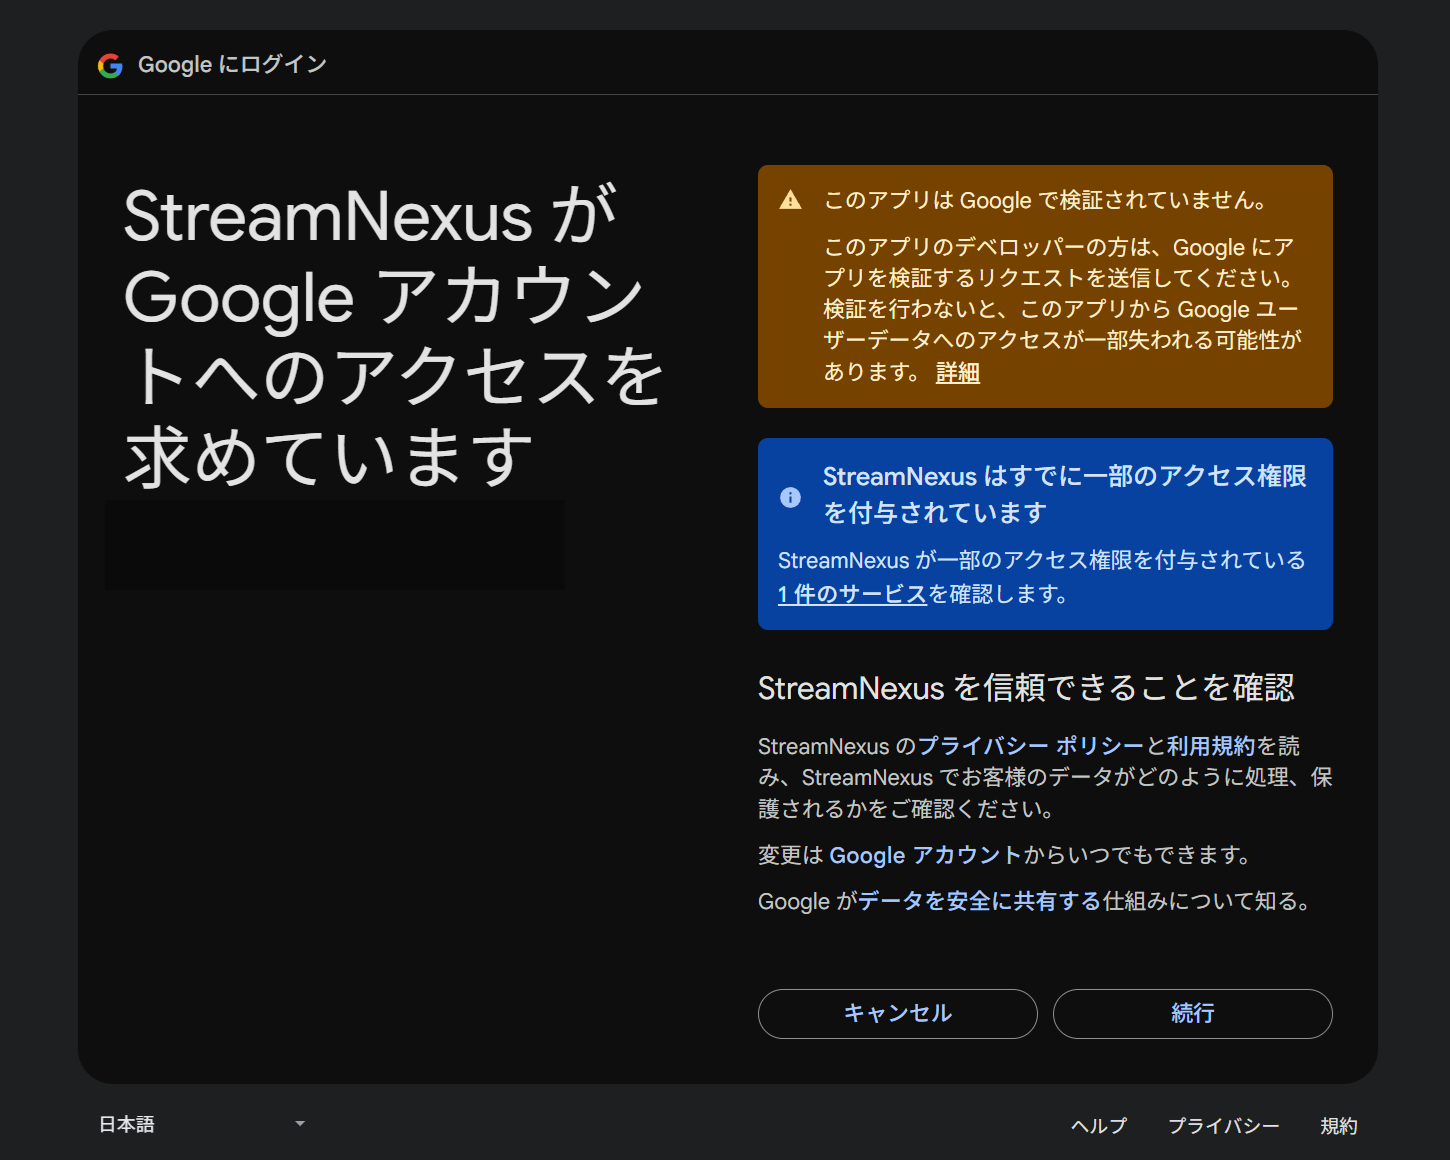
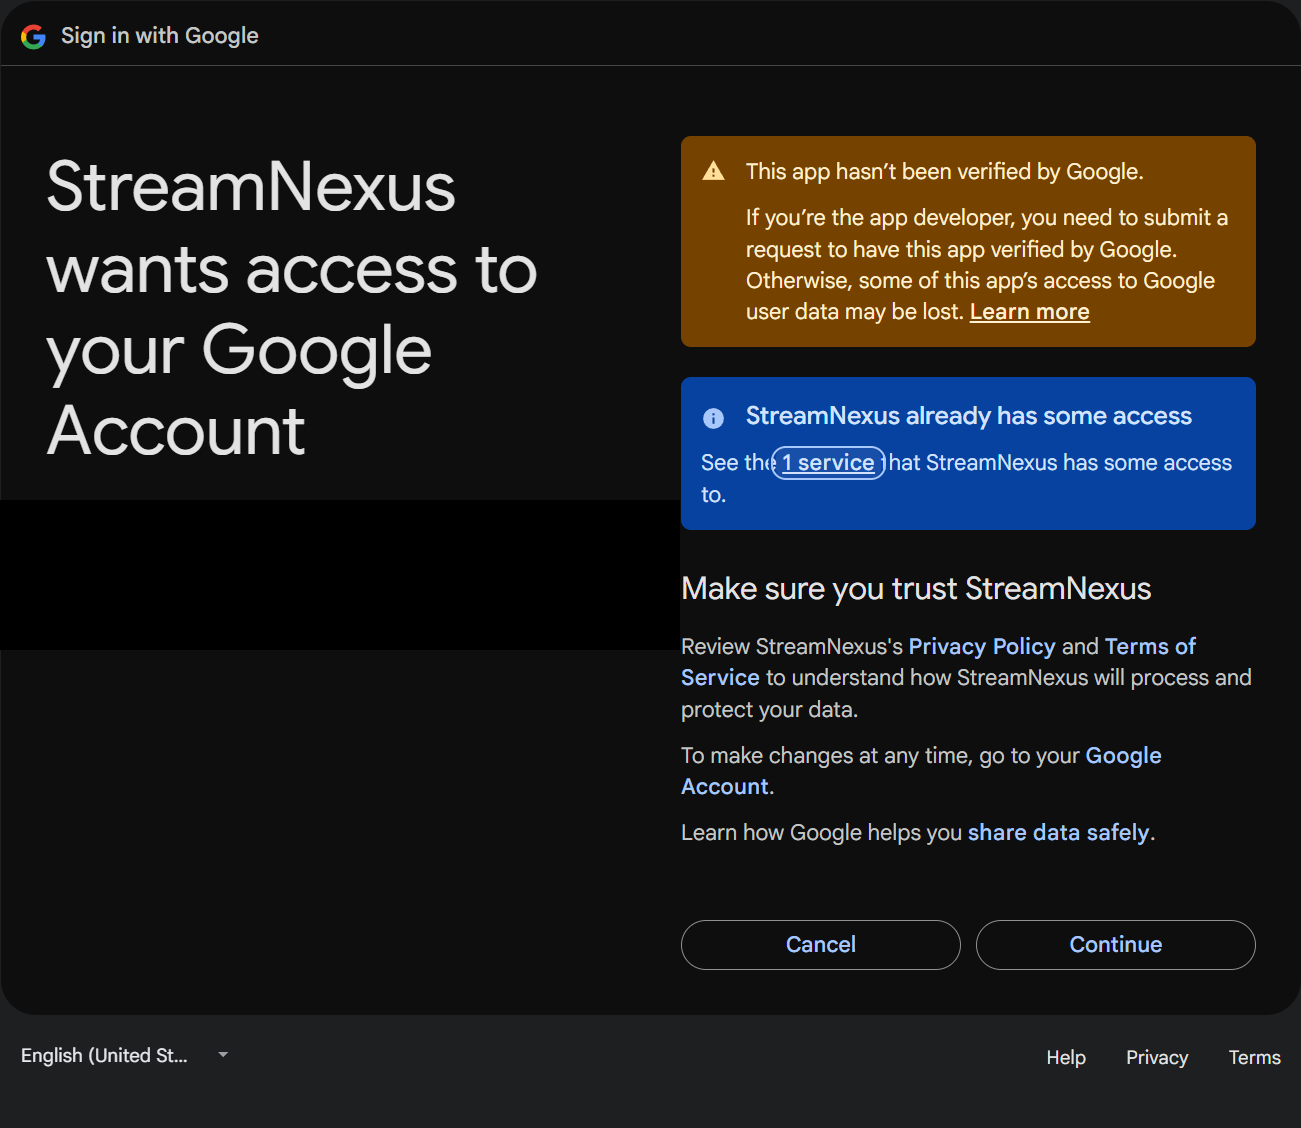
docs: Google監査用スコープ説明と動画を更新

diff --git a/google-cloud-youtube-oauth-submission.md b/google-cloud-youtube-oauth-submission.md
@@ -58,9 +58,45 @@ Google Cloud / YouTube API compliance audit 向けには、次の補足資料も
   - `http://localhost:5173/settings/youtube/callback`
 - Scope:
   - `https://www.googleapis.com/auth/youtube.readonly`
+- OAuth client:
+  - Web application client ID: `397918410949-ablo3jr6ulad92vpc08u8luph4i41lus.apps.googleusercontent.com`
+  - Client secret は提出資料・公開 repo・デモ動画に表示しない。
 
 サポートメールは、公開提出前に実運用で受け取れるメールアドレスへ統一する。
 Privacy Policy の Contact セクションも、Google OAuth consent screen と同じサポートメールが分かる表現にする。
+
+## Google Cloud Data Access: Scope usage に貼る文面
+
+Google Cloud Console の `Data Access > Scope usage` には、基本的に英語で以下を貼り付ける。
+
+```text
+StreamNexus uses https://www.googleapis.com/auth/youtube.readonly only to let a signed-in user view their own YouTube account data inside the desktop app. After OAuth consent, StreamNexus reads YouTube account/subscription-related data to import or select channels, monitor live-stream status, and display public video/live metadata for notifications and multiview playback. The data is shown only in the app UI and stored locally so the user can manage monitored channels. StreamNexus does not upload, edit, delete, comment on, manage videos/playlists/channels, or share/sell/use YouTube data for advertising or AI training. More limited access is insufficient because API-key-only public data cannot identify the user's YouTube account or user-selected/subscribed channels. StreamNexus requests only youtube.readonly and provides disconnect, Google token revocation, and local YouTube authorized-data deletion controls.
+```
+
+参考日本語訳:
+
+```text
+StreamNexus は、ログイン済みユーザーがデスクトップアプリ内で自分の YouTube アカウントデータを表示するためだけに https://www.googleapis.com/auth/youtube.readonly を使用します。OAuth 同意後、StreamNexus は YouTube アカウントまたは登録チャンネル関連データを読み取り、チャンネルの取り込み・選択、ライブ配信状態の監視、通知とマルチビュー再生のための公開動画/ライブメタデータ表示に使用します。データはアプリ UI 内だけに表示され、ユーザーが監視対象チャンネルを管理できるようローカルに保存されます。StreamNexus は動画やプレイリストやチャンネルのアップロード、編集、削除、コメント投稿、管理を行わず、YouTube データを広告や AI 学習のために共有、販売、使用しません。API key のみで取得できる公開データでは、ユーザーの YouTube アカウントやユーザーが選択または登録しているチャンネルを識別できないため、より限定的なアクセスでは不十分です。StreamNexus は youtube.readonly のみを要求し、連携解除、Google token revocation、ローカル YouTube Authorized Data 削除 control を提供します。
+```
+
+## Demo video に含める内容
+
+Google Cloud Console の `Demo video: Scope usage` には、YouTube にアップロードした動画 URL を入力する。
+動画では次を明確に見せる。
+
+- App name: `StreamNexus`
+- OAuth client type: Web application
+- OAuth client ID: `397918410949-ablo3jr6ulad92vpc08u8luph4i41lus.apps.googleusercontent.com`
+- Requested scope: `https://www.googleapis.com/auth/youtube.readonly`
+- OAuth consent screen の app name と expanded permission details
+- アプリ内で YouTube read-only data を使う流れ:
+  - 初回利用前の Privacy Policy / Terms 確認
+  - Settings > Linked Accounts
+  - YouTube 連携導線
+  - YouTube account / channel selection / live metadata display のために read-only data を使う説明
+  - YouTube 連携解除、Google token revocation、local authorized-data deletion control
+
+動画を YouTube へアップロードする場合は、限定公開 URL を推奨する。アップロードや Google Cloud Console への保存は外部送信・外部状態変更なので、実行直前に確認してから行う。
 
 ## 提出用スクリーンショット
 

diff --git a/google-compliance-evidence-package.ja.md b/google-compliance-evidence-package.ja.md
@@ -30,6 +30,7 @@ SVG は編集用ソースとして残します。
 | Terms of Service URL | `https://github.com/rodojp/StreamNexus-updates/blob/main/terms-of-service.md` |
 | YouTube scope | `https://www.googleapis.com/auth/youtube.readonly` のみ |
 | OAuth redirect URI | packaged app または dev app が使う localhost callback URI |
+| OAuth client | Web application client ID `397918410949-ablo3jr6ulad92vpc08u8luph4i41lus.apps.googleusercontent.com`; client secret は表示しない |
 | Support email | Google OAuth consent screen に表示される support email と同一 |
 | Branding | app name に `Twitch` または `YouTube` を含めず、公開名称を `StreamNexus` にする |
 
@@ -60,7 +61,7 @@ production OAuth client が異なる場合は、最終提出前に production cl
 現在のスクリーンショット上の制限:
 
 - Google Cloud Console の Data Access では、scope justification と demo video URL がまだ空欄です。提出前に Google Cloud Console 側で入力してください。
-- 公開 repo に置くため、account email、account avatar、client ID、client secret は切り出しまたは黒塗りしています。
+- 公開 repo に置くため、account email、account avatar、client secret は切り出しまたは黒塗りしています。OAuth client ID は Google がデモ動画での識別を求めるため表示してもよい値ですが、client secret は絶対に表示しないでください。
 
 各スクリーンショットで確認したい点:
 
@@ -80,20 +81,27 @@ production OAuth client が異なる場合は、最終提出前に production cl
 
 - [streamnexus-google-compliance-demo.mp4](./evidence/demo-video/streamnexus-google-compliance-demo.mp4)
 
+Google Cloud Console に貼り付ける Scope usage 文面:
+
+```text
+StreamNexus uses https://www.googleapis.com/auth/youtube.readonly only to let a signed-in user view their own YouTube account data inside the desktop app. After OAuth consent, StreamNexus reads YouTube account/subscription-related data to import or select channels, monitor live-stream status, and display public video/live metadata for notifications and multiview playback. The data is shown only in the app UI and stored locally so the user can manage monitored channels. StreamNexus does not upload, edit, delete, comment on, manage videos/playlists/channels, or share/sell/use YouTube data for advertising or AI training. More limited access is insufficient because API-key-only public data cannot identify the user's YouTube account or user-selected/subscribed channels. StreamNexus requests only youtube.readonly and provides disconnect, Google token revocation, and local YouTube authorized-data deletion controls.
+```
+
 推奨撮影順:
 
-1. StreamNexus を起動する。
-2. 利用前ポリシー確認画面を表示する。
-3. Settings > Linked Accounts を開く。
-4. YouTube link をクリックする。
-5. Google OAuth consent screen で app name `StreamNexus` を表示する。
-6. permission details を展開し、`youtube.readonly` を表示する。
-7. 認可を完了する。
-8. 登録チャンネル取り込みやチャンネル選択など、認可済み read-only data を使う YouTube 機能を表示する。
-9. Settings > Linked Accounts に戻る。
-10. YouTube 連携解除の確認を表示する。
-11. local authorized-data deletion control を実行する。
-12. reviewer に求められた場合は、Google のサードパーティ製アプリ管理画面も表示する。
+1. App name `StreamNexus`、OAuth client type `Web application`、OAuth client ID `397918410949-ablo3jr6ulad92vpc08u8luph4i41lus.apps.googleusercontent.com`、requested scope `https://www.googleapis.com/auth/youtube.readonly` を表示する。
+2. StreamNexus を起動する。
+3. 利用前ポリシー確認画面を表示する。
+4. Settings > Linked Accounts を開く。
+5. YouTube link をクリックする。
+6. Google OAuth consent screen で app name `StreamNexus` を表示する。
+7. permission details を展開し、YouTube read-only access details を表示する。
+8. end-to-end の private demo を撮る場合は認可を完了する。
+9. 登録チャンネル取り込み、チャンネル選択、ライブ状態監視、公開動画/ライブメタデータ表示など、認可済み read-only data を使う YouTube 機能を表示する。
+10. Settings > Linked Accounts に戻る。
+11. YouTube 連携解除の確認を表示する。
+12. local authorized-data deletion control を実行する。
+13. reviewer に求められた場合は、Google のサードパーティ製アプリ管理画面も表示する。
 
 ## 5. 現在のエンジニアリング制御
 
@@ -110,6 +118,6 @@ production OAuth client が異なる場合は、最終提出前に production cl
 - Google Cloud Console の値が `StreamNexus` と一致している。
 - OAuth consent のスクリーンショットが review に出す OAuth client と同じ設定で撮影されている。
 - scope screenshot が展開済みで、必要な YouTube read-only scope のみを示している。
-- demo video に policy review、OAuth consent、YouTube 機能利用、disconnect、local deletion が含まれている。Google Cloud Console が YouTube link を求める場合は、local MP4 を提出に使う YouTube account へ upload し、その URL を Google Cloud Console に貼り付ける。
+- demo video に app name、OAuth client ID、policy review、OAuth consent、YouTube 機能利用、disconnect、local deletion が含まれている。Google Cloud Console が YouTube link を求める場合は、local MP4 を提出に使う YouTube account へ限定公開で upload し、その URL を Google Cloud Console に貼り付ける。
 - Google Cloud Console の scope justification を提出前に入力している。
 - Privacy Policy と Terms の URL が未ログインブラウザから 404 にならず開ける。

diff --git a/google-compliance-evidence-package.md b/google-compliance-evidence-package.md
@@ -30,6 +30,7 @@ Before final submission, capture or verify these values in Google Cloud Console:
 | Terms of Service URL | `https://github.com/rodojp/StreamNexus-updates/blob/main/terms-of-service.md` |
 | YouTube scope | `https://www.googleapis.com/auth/youtube.readonly` only |
 | OAuth redirect URI | The localhost callback URI used by the packaged or dev app |
+| OAuth client | Web application client ID `397918410949-ablo3jr6ulad92vpc08u8luph4i41lus.apps.googleusercontent.com`; do not show the client secret |
 | Support email | The same support email shown on the Google OAuth consent screen |
 | Branding | No app name containing `Twitch` or `YouTube`; public name should be `StreamNexus` |
 
@@ -60,7 +61,7 @@ Recommended remaining file names:
 Current screenshot limitations:
 
 - Google Cloud Console Data Access currently still shows empty scope-justification and demo-video URL fields; do not submit until those fields are completed in Google Cloud Console.
-- The screenshots committed here intentionally crop or redact account email, account avatar, client ID, and client secret values before public publication.
+- The screenshots committed here intentionally crop or redact account email, account avatar, and client secret values before public publication. The OAuth client ID may be shown because Google asks the demo video to identify the OAuth client, but the client secret must never be shown.
 
 Each screenshot should show:
 
@@ -80,20 +81,27 @@ Current generated video:
 
 - [streamnexus-google-compliance-demo.mp4](./evidence/demo-video/streamnexus-google-compliance-demo.mp4)
 
+Scope usage text to paste in Google Cloud Console:
+
+```text
+StreamNexus uses https://www.googleapis.com/auth/youtube.readonly only to let a signed-in user view their own YouTube account data inside the desktop app. After OAuth consent, StreamNexus reads YouTube account/subscription-related data to import or select channels, monitor live-stream status, and display public video/live metadata for notifications and multiview playback. The data is shown only in the app UI and stored locally so the user can manage monitored channels. StreamNexus does not upload, edit, delete, comment on, manage videos/playlists/channels, or share/sell/use YouTube data for advertising or AI training. More limited access is insufficient because API-key-only public data cannot identify the user's YouTube account or user-selected/subscribed channels. StreamNexus requests only youtube.readonly and provides disconnect, Google token revocation, and local YouTube authorized-data deletion controls.
+```
+
 Suggested recording flow:
 
-1. Start StreamNexus.
-2. Show the pre-use policy confirmation screen.
-3. Open Settings > Linked Accounts.
-4. Click YouTube link.
-5. Show Google OAuth consent screen with app name `StreamNexus`.
-6. Expand the permission details and show `youtube.readonly`.
-7. Complete authorization.
-8. Show a YouTube feature that uses authorized read-only data, such as subscription import or channel selection.
-9. Return to Settings > Linked Accounts.
-10. Disconnect YouTube and show the confirmation.
-11. Use the local authorized-data deletion control.
-12. Show Google's third-party app access page, if requested by the reviewer.
+1. Show app details: app name `StreamNexus`, OAuth client type `Web application`, OAuth client ID `397918410949-ablo3jr6ulad92vpc08u8luph4i41lus.apps.googleusercontent.com`, and requested scope `https://www.googleapis.com/auth/youtube.readonly`.
+2. Start StreamNexus.
+3. Show the pre-use policy confirmation screen.
+4. Open Settings > Linked Accounts.
+5. Click YouTube link.
+6. Show Google OAuth consent screen with app name `StreamNexus`.
+7. Expand the permission details and show the YouTube read-only access details.
+8. Complete authorization if recording an end-to-end private demo.
+9. Show a YouTube feature that uses authorized read-only data, such as subscription import, channel selection, live status monitoring, or public video/live metadata display.
+10. Return to Settings > Linked Accounts.
+11. Disconnect YouTube and show the confirmation.
+12. Use the local authorized-data deletion control.
+13. Show Google's third-party app access page, if requested by the reviewer.
 
 ## 5. Current Engineering Controls
 
@@ -110,6 +118,6 @@ Do not submit the package until these are complete:
 - Google Cloud Console values match `StreamNexus`.
 - OAuth consent screenshots use the same OAuth client intended for review.
 - Scope screenshot is expanded and shows only the required YouTube read-only scope.
-- Demo video includes policy review, OAuth consent, YouTube feature usage, disconnect, and local deletion. If Google Cloud Console asks for a YouTube link, upload the local MP4 to the intended YouTube account and paste that URL in Google Cloud Console.
+- Demo video includes app name, OAuth client ID, policy review, OAuth consent, YouTube feature usage, disconnect, and local deletion. If Google Cloud Console asks for a YouTube link, upload the local MP4 to the intended YouTube account as an unlisted video and paste that URL in Google Cloud Console.
 - Google Cloud Console scope justification is filled in before submission.
 - Privacy Policy and Terms URLs open without 404 from a non-authenticated browser session.